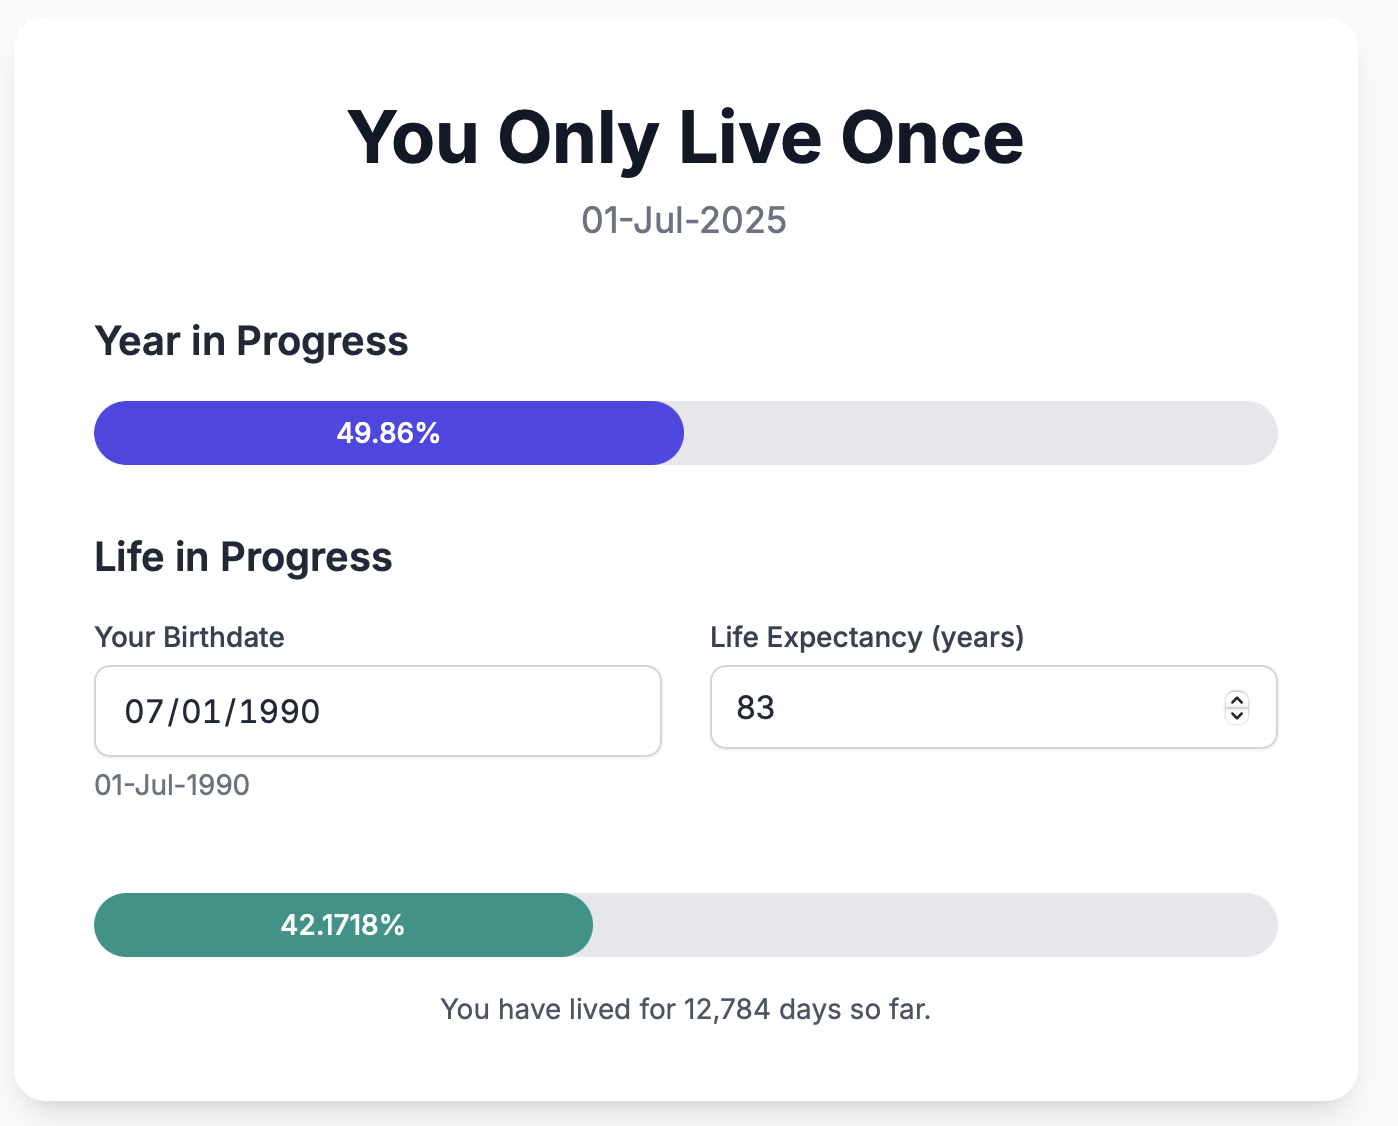
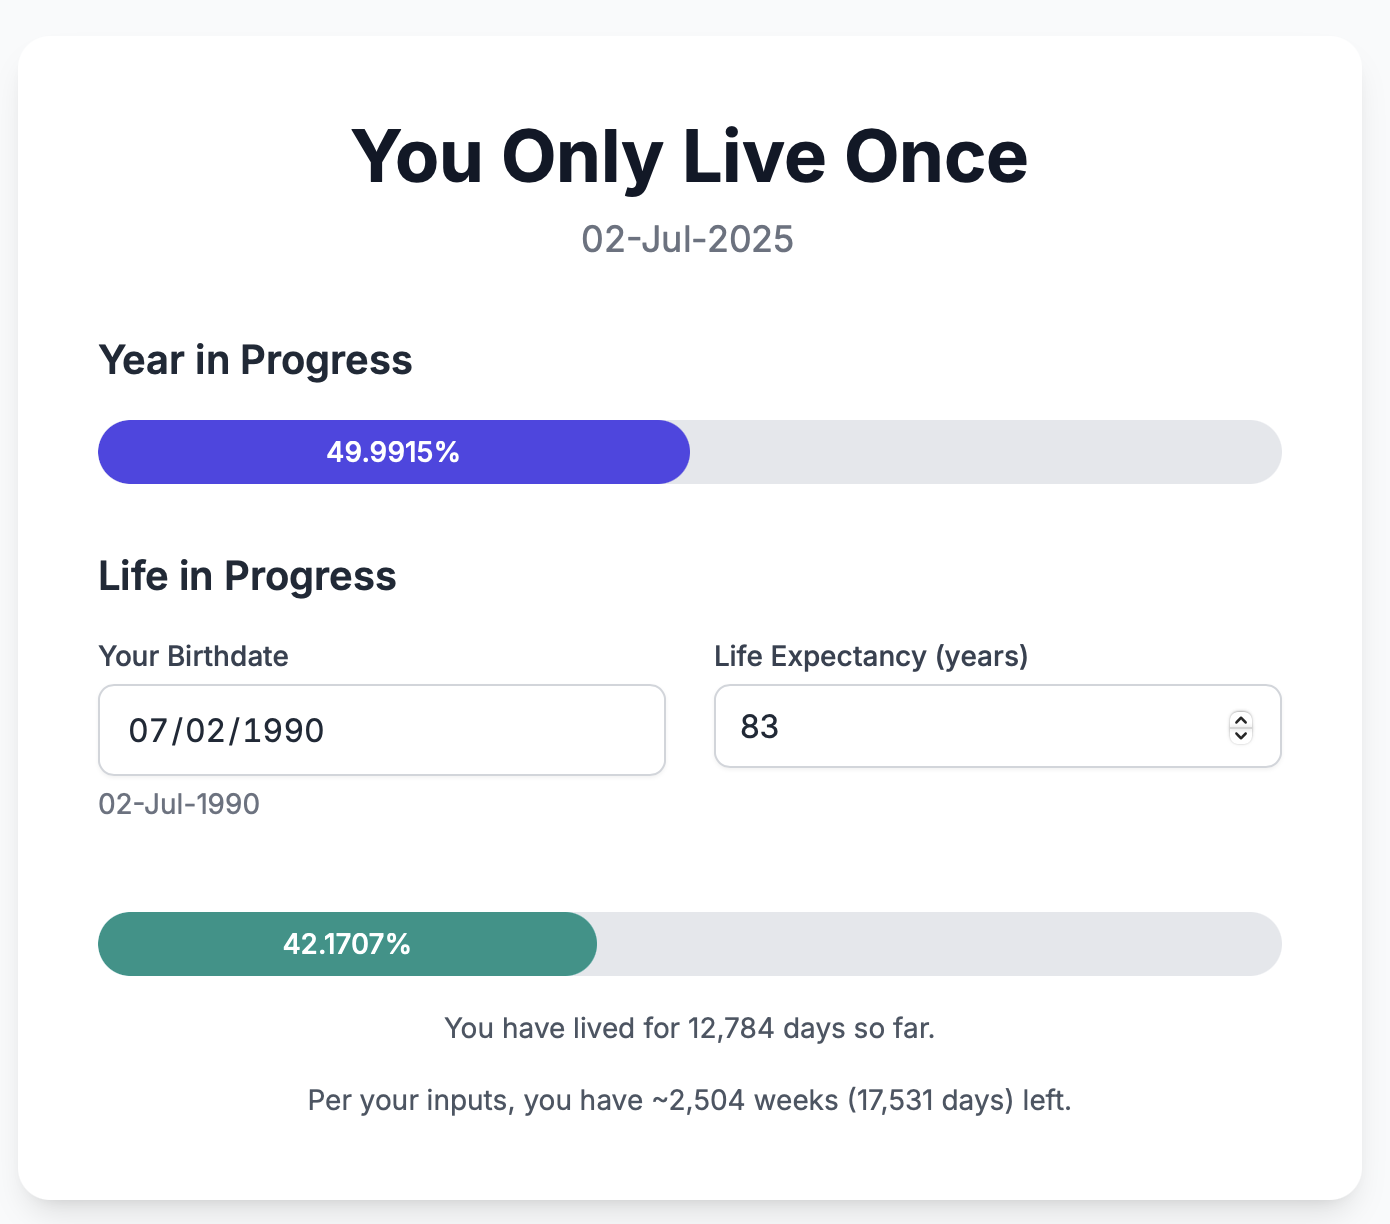
Added remaining life expectancy in days & weeks

diff --git a/index.html b/index.html
@@ -62,7 +62,8 @@
                     <span id="lifeProgressText">Enter your birthdate</span>
                 </div>
             </div>
-             <p id="lifeSummary" class="text-center text-gray-600 text-sm h-4"></p>
+             <p id="lifeSummary" class="text-center text-gray-600 text-sm min-h-[1.25rem]"></p>
+             <p id="lifeRemaining" class="text-center text-gray-600 text-sm mt-1 min-h-[1.25rem]"></p>
         </div>
         
     </div>
@@ -78,6 +79,7 @@
         const lifeExpectancyInput = document.getElementById('lifeExpectancy');
         const currentDateEl = document.getElementById('currentDate');
         const lifeSummaryEl = document.getElementById('lifeSummary');
+        const lifeRemainingEl = document.getElementById('lifeRemaining');
         const saveIndicator = document.getElementById('saveIndicator');
         let saveTimeout;
 
@@ -104,14 +106,12 @@
             const startOfYear = new Date(now.getFullYear(), 0, 1);
             const endOfYear = new Date(now.getFullYear() + 1, 0, 1);
             
-            const totalDaysInYear = (endOfYear - startOfYear) / (1000 * 60 * 60 * 24);
-            const dayOfYear = Math.floor((now - startOfYear) / (1000 * 60 * 60 * 24)) + 1;
-            
-            const percentagePassed = (dayOfYear / totalDaysInYear) * 100;
+            // Calculate percentage based on milliseconds for a smoother, real-time update.
+            const percentagePassed = ((now - startOfYear) / (endOfYear - startOfYear)) * 100;
 
             // Update UI
-            yearProgressBar.style.width = `${percentagePassed.toFixed(2)}%`;
-            yearProgressText.textContent = `${percentagePassed.toFixed(2)}%`;
+            yearProgressBar.style.width = `${percentagePassed.toFixed(4)}%`;
+            yearProgressText.textContent = `${percentagePassed.toFixed(4)}%`;
             currentDateEl.textContent = formatDate(now);
         }
 
@@ -129,6 +129,7 @@
                 lifeProgressBar.style.width = '0%';
                 lifeProgressText.textContent = 'Enter your birthdate';
                 lifeSummaryEl.textContent = '';
+                lifeRemainingEl.textContent = '';
                 birthdateDisplay.textContent = '';
                 return;
             }
@@ -148,6 +149,7 @@
                 lifeProgressBar.style.width = '0%';
                 lifeProgressText.textContent = 'Date is in the future';
                 lifeSummaryEl.textContent = '';
+                lifeRemainingEl.textContent = '';
                 return;
             }
 
@@ -165,6 +167,17 @@
             lifeProgressBar.style.width = `${Math.min(100, percentagePassed).toFixed(4)}%`;
             lifeProgressText.textContent = `${percentagePassed.toFixed(4)}%`;
             lifeSummaryEl.textContent = `You have lived for ${Math.floor(daysLived).toLocaleString()} days so far.`;
+
+            // Calculate and display remaining time
+            const timeRemainingMs = expectedEndDate - now;
+            if (timeRemainingMs > 0) {
+                const daysRemaining = timeRemainingMs / (1000 * 60 * 60 * 24);
+                const weeksRemaining = daysRemaining / 7;
+                lifeRemainingEl.textContent = `Per your inputs, you have ~${Math.floor(weeksRemaining).toLocaleString()} weeks (${Math.floor(daysRemaining).toLocaleString()} days) left.`;
+            } else {
+                lifeRemainingEl.textContent = "You've lived beyond the average expectancy. Congratulations!";
+            }
+
         }
         
         /**

diff --git a/README.md b/README.md
@@ -11,7 +11,7 @@ A simple web application that visualizes your life progress and the current year
   - Your birthdate
   - Your life expectancy (customizable, defaults to 83 years)
 - **Persistent Settings**: Your birthdate and life expectancy are saved in your browser's localStorage
-- **Real-time Updates**: Year progress updates every minute
+- **Real-time Updates**: Progresses are updated every minute
 - **Responsive Design**: Works on desktop and mobile devices
 
 ## Usage
